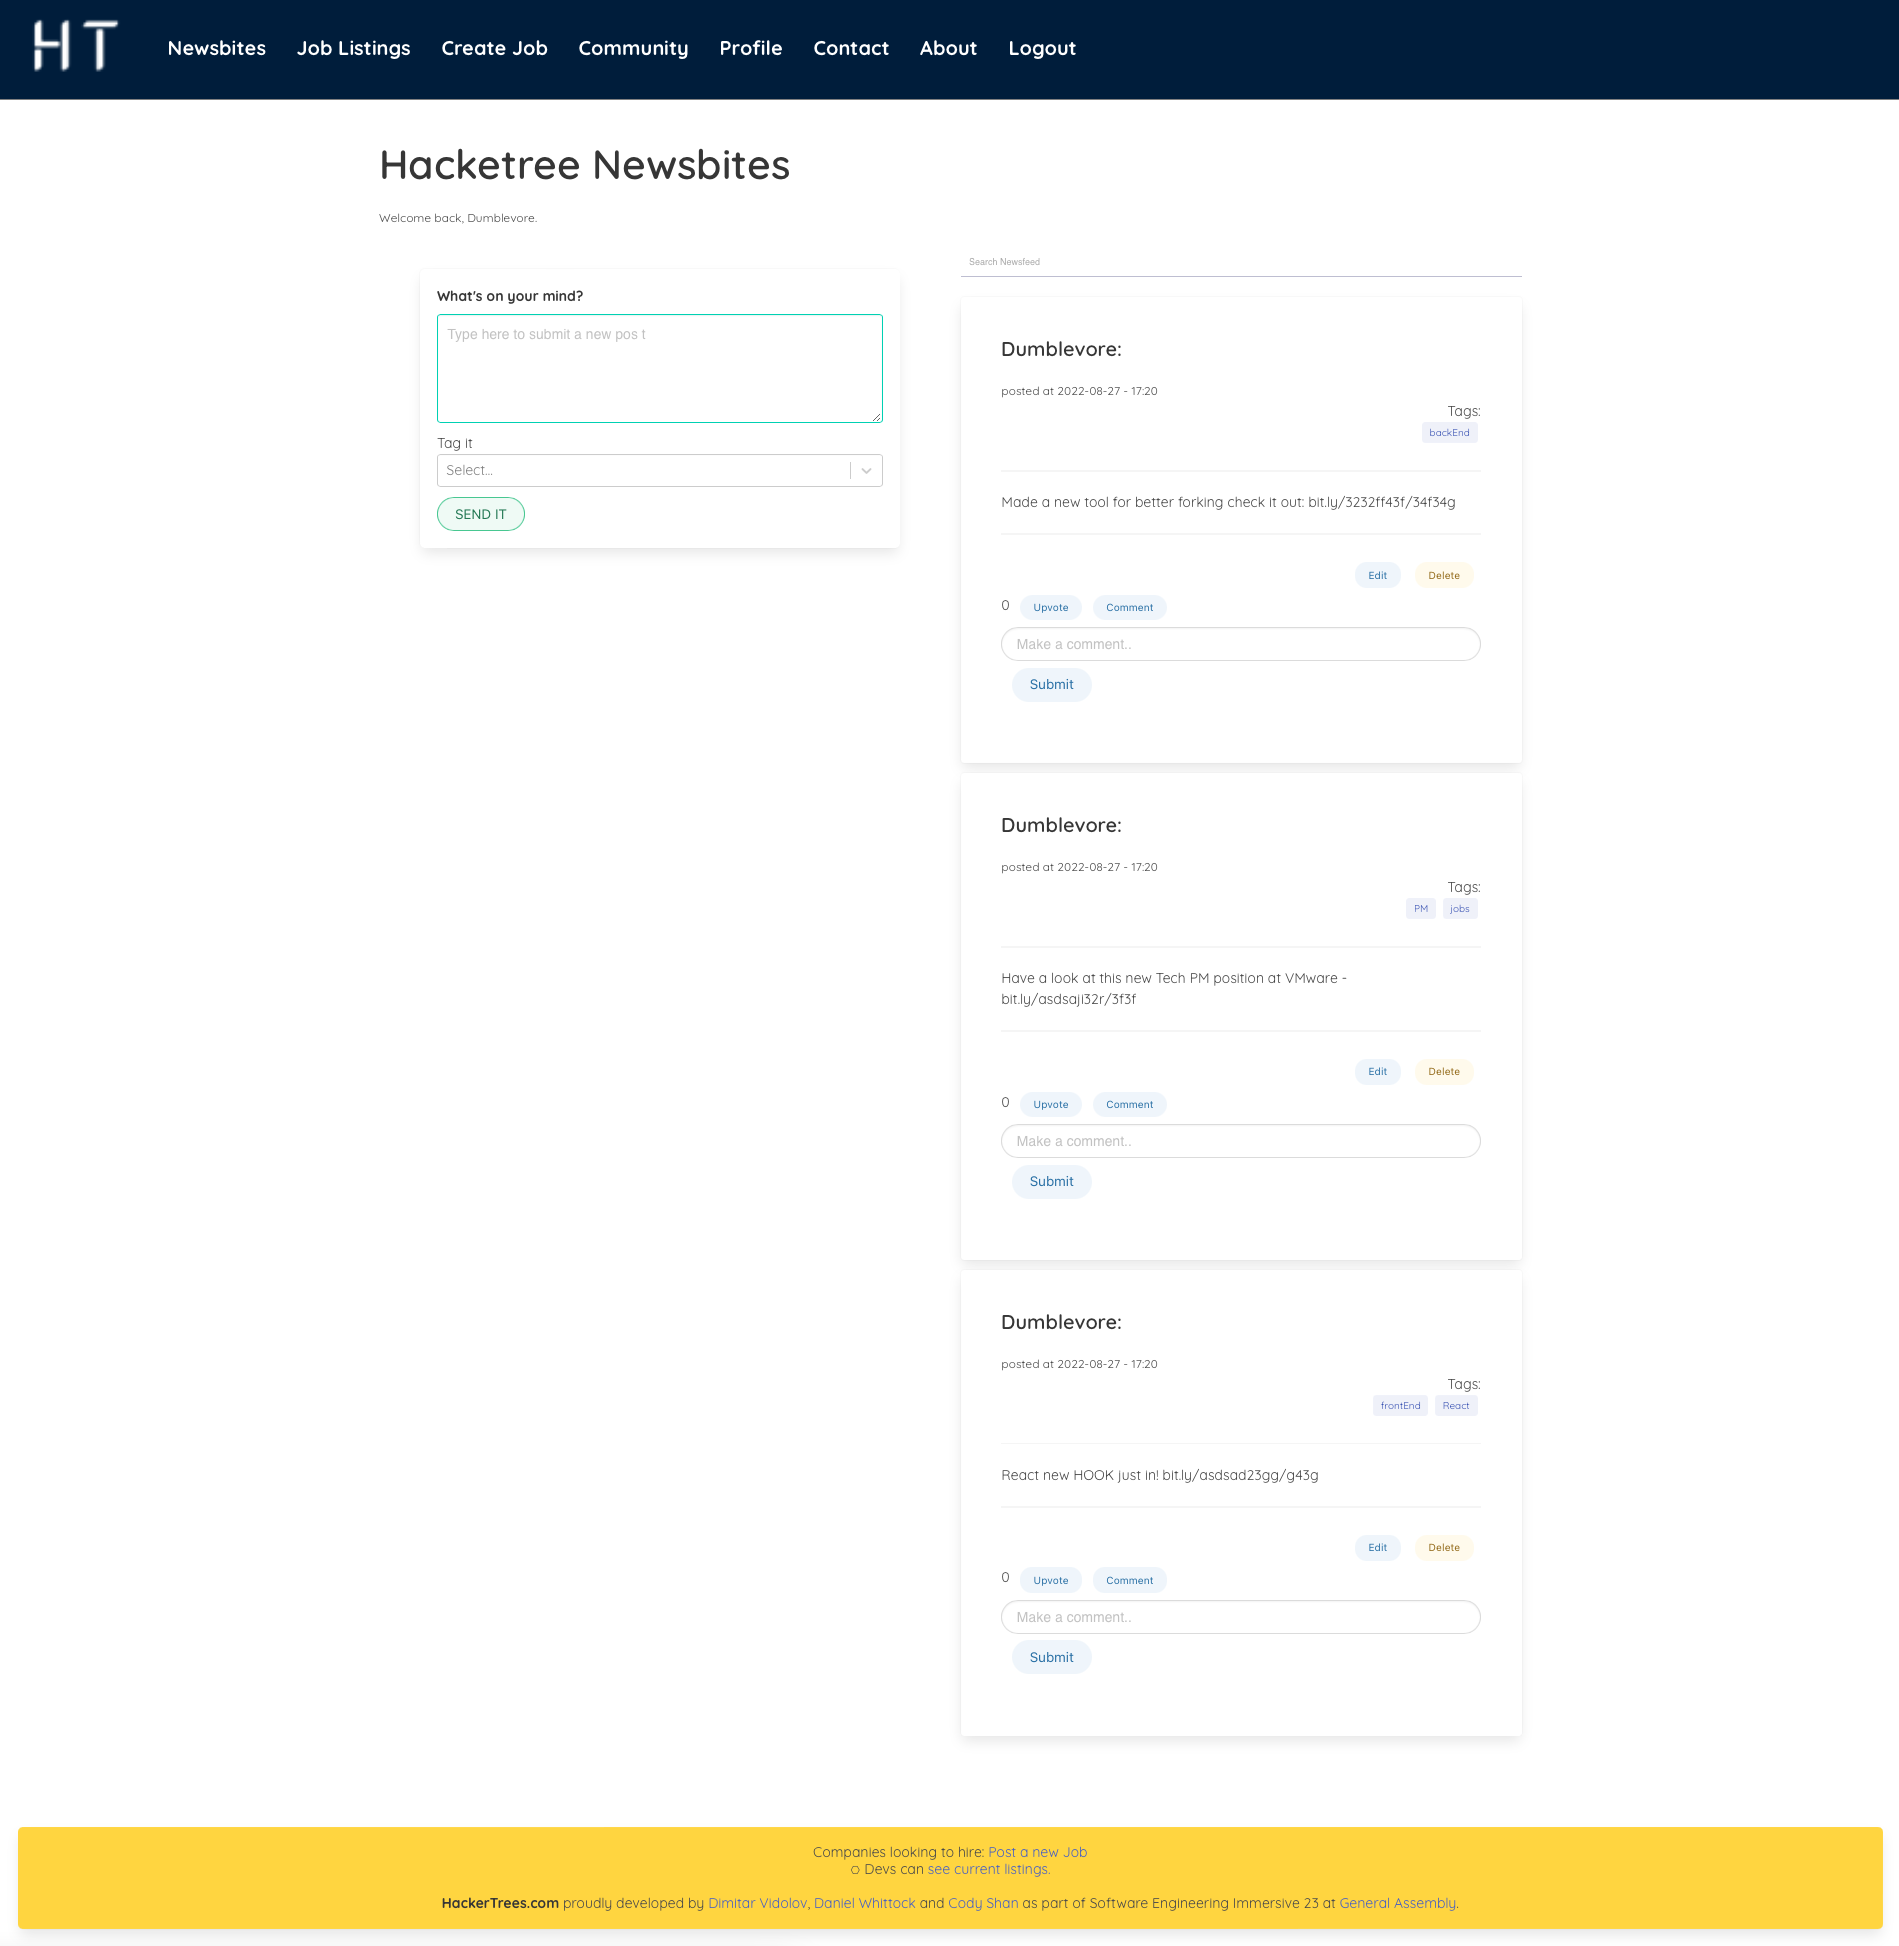
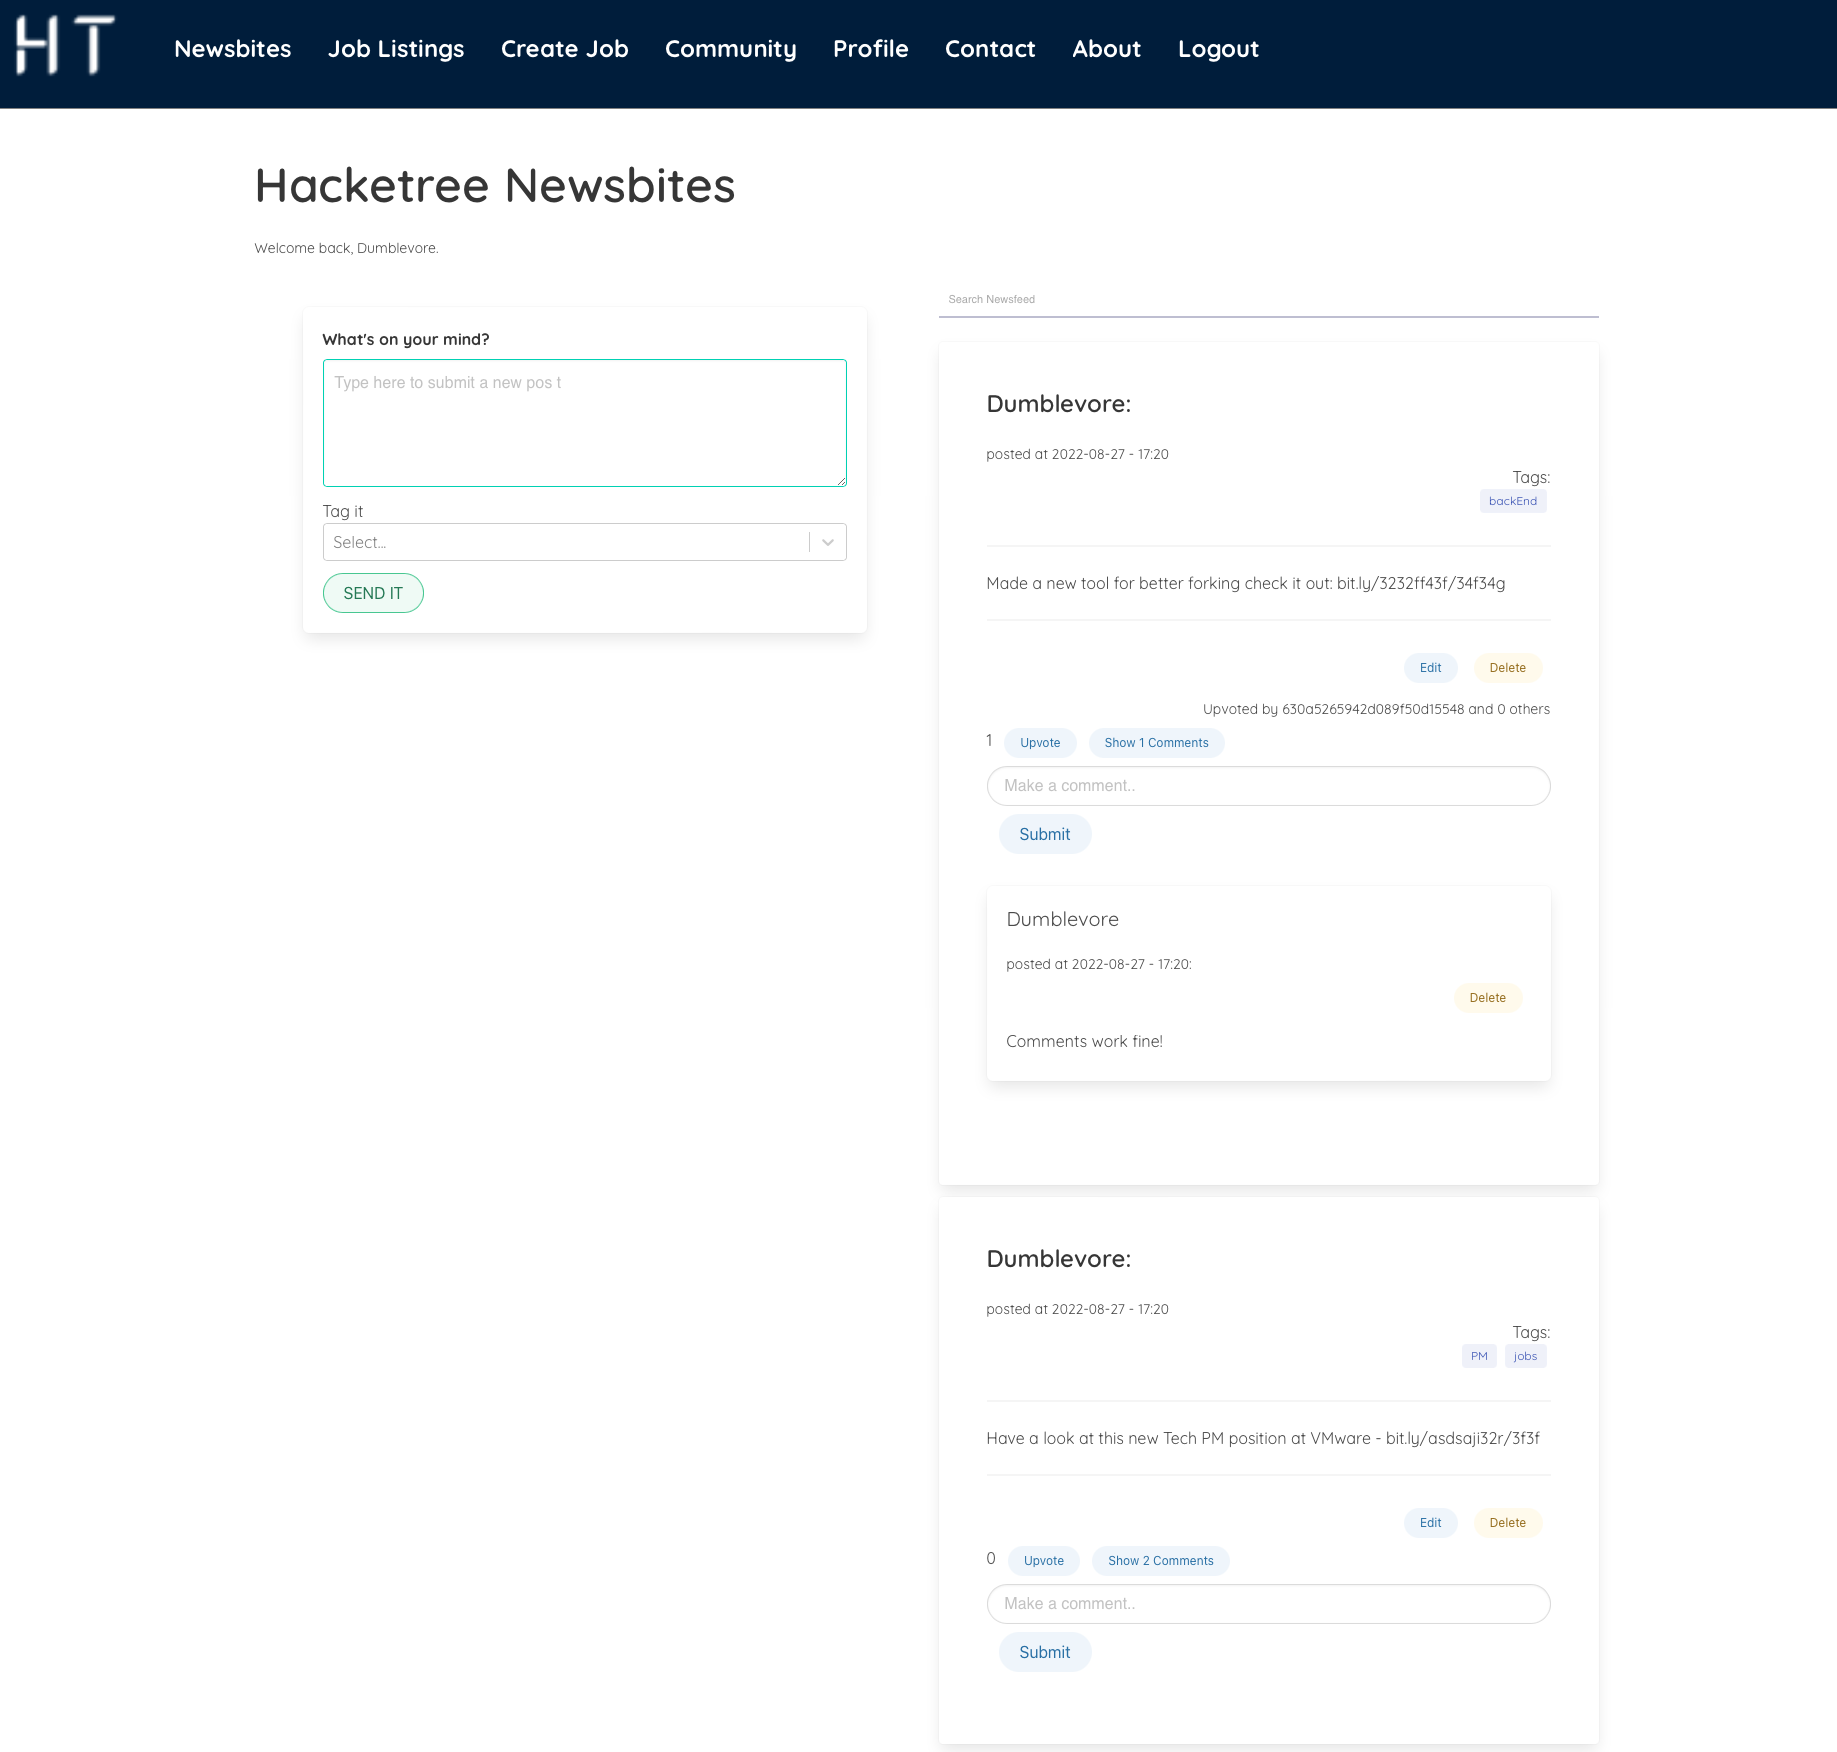
fixes

diff --git a/README.md b/README.md
@@ -80,6 +80,28 @@ It was a great project and there is a throve of features that can be added to ma
 Working in team is fun and can get a lot done when the group is in sync. 
 I personally learned quite a bit about react, router, state and bulma on this project. 
 
+A good idea was to keep updating the front end with a time interval:
+```
+  const getPostData = async () => {
+    const { data } = await axios.get(`${baseUrl}/posts/`,
+      {
+        headers: { "authorization": `Bearer ${localStorage.getItem("token")}` },
+      })
+    setAllUserPosts(data)
+  }
+
+  useEffect(() => {
+    getPostData()
+    setInterval(() => {
+      getPostData()
+    }, 2000);
+  }, [])
+  ```
+
+  That way the user will see up-to-date data. 
+  Deleting comments and posts in real time using state also improves drastically the UX. 
+  I aslo added a show/hide button for the comments so the feed doesn't clutter. 
+
 Final version of the newsfeed:
 ![newsfeed](./readme-assets/final-social.png)
 
